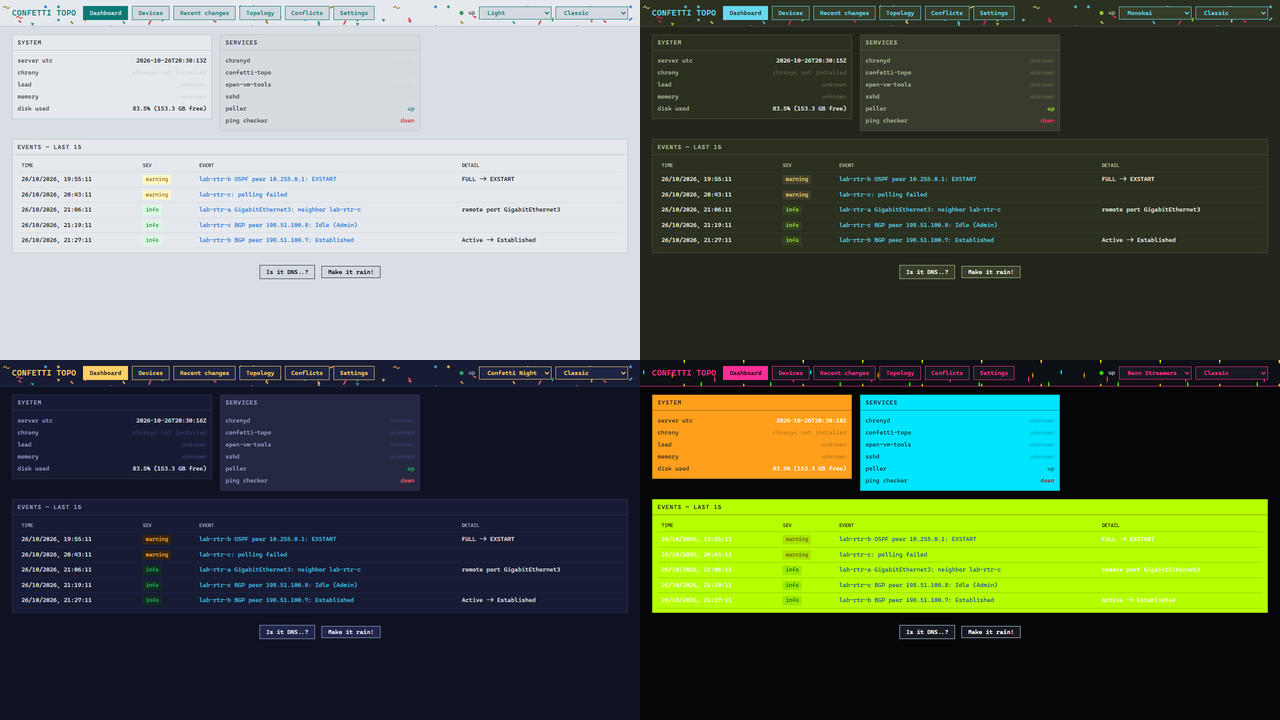
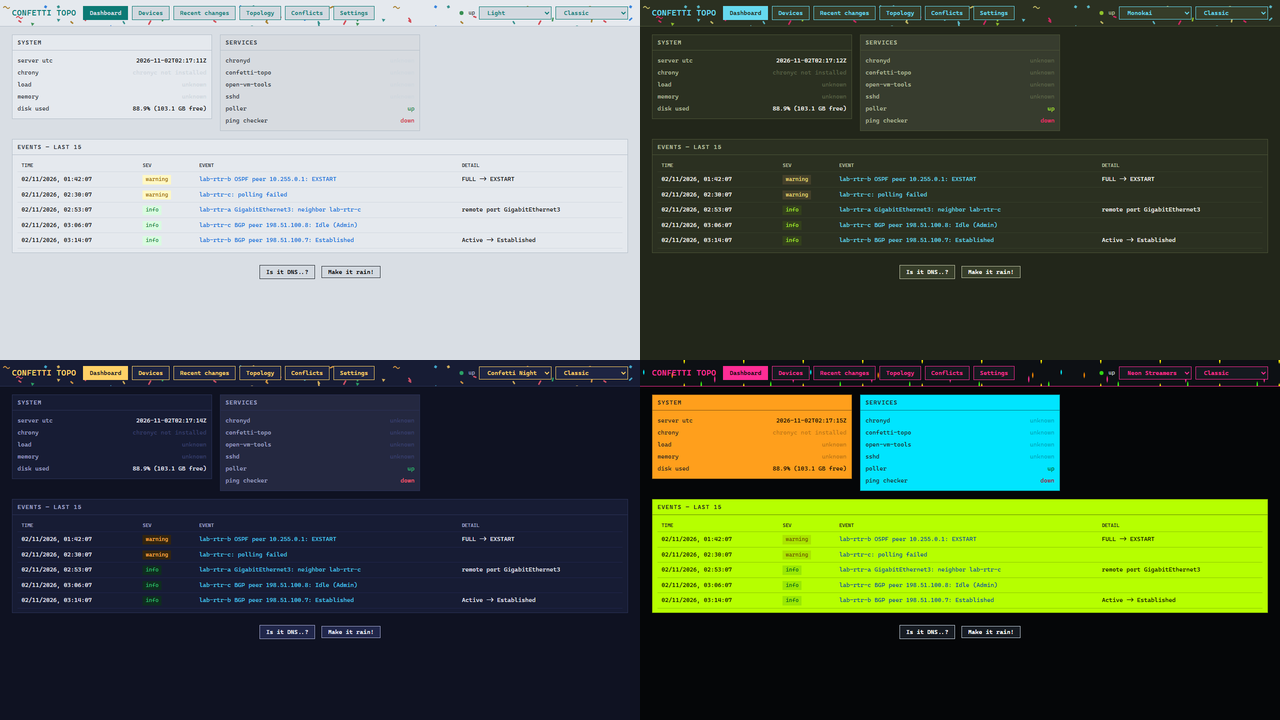
Zebra stripes: higher contrast in every theme and layout; striped-row hover from the stripe
--stripe raised in all themes, Retro 95, MS-DOS and Neon Green CRT; Neon box
stripe is a translucent grey; Neon boxes set color: var(--text) so cell text
is no longer white on the bright boxes. Striped-row hover is the stripe mixed
12% toward the text colour. README images re-recorded.

diff --git a/topo/static/theme.css b/topo/static/theme.css
@@ -9,7 +9,7 @@
     --bg-hover:  #1c2128;
     --bg-muted:  #21262d;
     --bg-code:   #010409;
-    --stripe:    #0e1217;
+    --stripe:    #262d36;
     --border:    #30363d;
     --border-soft: #21262d;
     --badge-bg:  #1a2332;
@@ -33,7 +33,7 @@
     --bg-hover:  #d3d9e0;
     --bg-muted:  #d3d9e0;
     --bg-code:   #dde2e8;
-    --stripe:    #dde2e8;
+    --stripe:    #bcc4ce;
     --border:    #b6bfca;
     --border-soft: #d3d9e0;
     --badge-bg:  #ddf4ff;
@@ -58,7 +58,7 @@
     --bg-hover:  #363d29;
     --bg-muted:  #363d29;
     --bg-code:   #1a1d14;
-    --stripe:    #272c1d;
+    --stripe:    #394030;
     --border:    #4b5337;
     --border-soft: #363d29;
     --badge-bg:  #2f3a22;
@@ -83,7 +83,7 @@
     --bg-hover:  #1a1a1a;
     --bg-muted:  #1a1a1a;
     --bg-code:   #000000;
-    --stripe:    #0d0d0d;
+    --stripe:    #242424;
     --border:    #ffffff;
     --border-soft: #555555;
     --badge-bg:  #000000;
@@ -108,7 +108,7 @@
     --bg-hover:  #112011;
     --bg-muted:  #112011;
     --bg-code:   #020402;
-    --stripe:    #081008;
+    --stripe:    #153015;
     --border:    #1f4a1f;
     --border-soft: #112011;
     --badge-bg:  #0d2412;
@@ -133,7 +133,7 @@
     --bg-hover:  #1e2442;
     --bg-muted:  #20264a;
     --bg-code:   #0a0d1a;
-    --stripe:    #12162a;
+    --stripe:    #272e50;
     --border:    #2b3256;
     --border-soft: #20264a;
     --badge-bg:  #1d2346;
@@ -158,7 +158,7 @@
     --bg-hover:  #151a20;
     --bg-muted:  #161b22;
     --bg-code:   #030405;
-    --stripe:    #0a0c10;
+    --stripe:    #1d232c;
     --border:    #263040;
     --border-soft: #161b22;
     --badge-bg:  #0f1e2a;
@@ -217,13 +217,14 @@
    flips to dark text and deep status colours, and the fills become tints, so
    everything still reads against the bright background. */
 :root[data-theme="neon"] .section {
+    color: var(--text);
     --text:      #000000;
     --text-dim:  #1f1f1f;
     --bg:        rgba(255,255,255,.35);
     --bg-hover:  rgba(0,0,0,.10);
     --bg-muted:  rgba(0,0,0,.14);
     --bg-code:   rgba(0,0,0,.12);
-    --stripe:    rgba(0,0,0,.05);
+    --stripe:    rgba(128,128,128,.30);
     --border:    rgba(0,0,0,.45);
     --border-soft: rgba(0,0,0,.20);
     --row-line:  rgba(0,0,0,.20);

diff --git a/topo/static/layout.css b/topo/static/layout.css
@@ -142,7 +142,7 @@ th[aria-sort=descending]::after { content: ' BC'; }
 tbody tr:hover td { background: var(--bg-hover); }
 /* Zebra stripes (opt-in: <table class="striped">). --stripe is set by every theme and layout; hover still wins. */
 table.striped tbody tr:nth-child(even) td { background: var(--stripe); }
-table.striped tbody tr:hover td { background: var(--bg-hover); }
+table.striped tbody tr:hover td { background: color-mix(in srgb, var(--stripe), var(--text) 12%); }
 /* Columns hug their content and sit on the left instead of spreading over the full width. */
 table.compact { width: auto; max-width: 100%; }
 table.compact th, table.compact td { padding: 3px 12px 3px 6px; text-align: left; white-space: nowrap; }
@@ -318,7 +318,7 @@ button.primary:hover { color: var(--bg); filter: brightness(1.15); }
     --bg-hover:  #dcdcdc;
     --bg-muted:  #d4d4d4;
     --bg-code:   #ffffff;
-    --stripe:    #f2f2f2;
+    --stripe:    #e4e4e4;
     --border:    #808080;
     --border-soft: #dcdcdc;
     --badge-bg:  #ffffff;
@@ -530,7 +530,7 @@ button.primary:hover { color: var(--bg); filter: brightness(1.15); }
     --crt-rgb: 170, 170, 170;      --crt-fail-rgb: 255, 85, 85;
     --crt-bg: #0000AA;  --crt-bg-hi: #0000AA;  --crt-bg-lo: #0000AA;
     --crt-card: #0000AA;  --crt-hover: #0000C8;  --crt-muted: #000088;
-    --crt-code: #000070;  --crt-stripe: #000088;
+    --crt-code: #000070;  --crt-stripe: #2020D0;
     --crt-line: #55FFFF;  --crt-soft: #5555FF;
     --crt-hi: #FFFFFF;  --crt-mid: #AAAAAA;  --crt-gray: #8080FF;  --crt-accent: #55FFFF;
     --crt-red: #FF8080;  --crt-red-bg: #550000;
@@ -540,7 +540,7 @@ button.primary:hover { color: var(--bg); filter: brightness(1.15); }
     --crt-rgb: 57, 255, 20;      --crt-fail-rgb: 140, 255, 77;
     --crt-bg: #010d03;  --crt-bg-hi: #021c07;  --crt-bg-lo: #000502;
     --crt-card: #021407;  --crt-hover: #032a0a;  --crt-muted: #031a09;
-    --crt-code: #010a02;  --crt-stripe: #021005;
+    --crt-code: #010a02;  --crt-stripe: #04240a;
     --crt-line: #137a10;  --crt-soft: #0b4a0c;
     --crt-hi: #39ff14;  --crt-mid: #22b80c;  --crt-gray: #1d4a1a;  --crt-accent: #7dff6a;
     --crt-red: #ff5a3c;  --crt-red-bg: #3a1008;

diff --git a/.claude/skills/confetti-topo-dev-run/SKILL.md b/.claude/skills/confetti-topo-dev-run/SKILL.md
@@ -19,6 +19,8 @@ cd topo && TOPO_PORT=8080 python serve.py
 - The database is `topo.db` in the working directory (`TOPO_DB_PATH` overrides). It holds plaintext device
   credentials; it is git-ignored. Check it is up: `curl http://127.0.0.1:8080/api/health`.
   `"rc-service not installed"` for every service is normal on Windows.
+- `topo/topo.db` is the user's working DB and normally holds real devices. After start, run
+  `GET /api/devices` and report the count. Never call it empty.
 - **Stopping on Windows:** stopping the background shell leaves `python serve.py` running and holding the
   port. Find it with `Get-NetTCPConnection -LocalPort 8080 -State Listen` and kill that PID before
   restarting. If an old server is still up, it (not the new code) answers requests.
